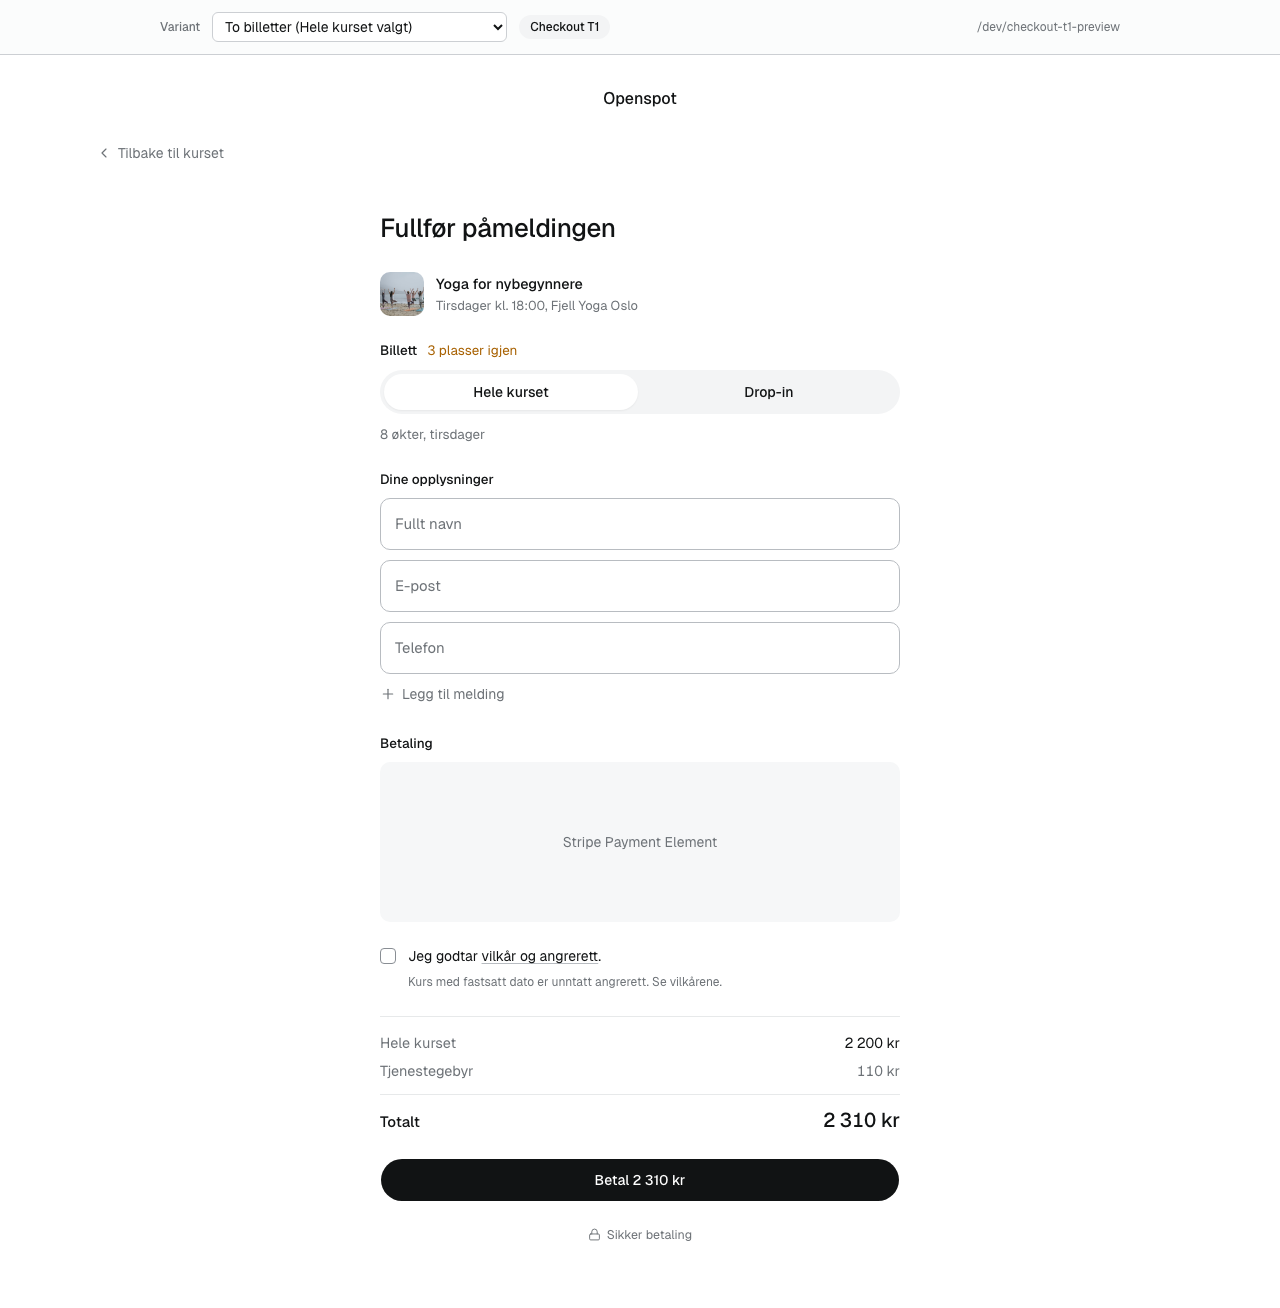
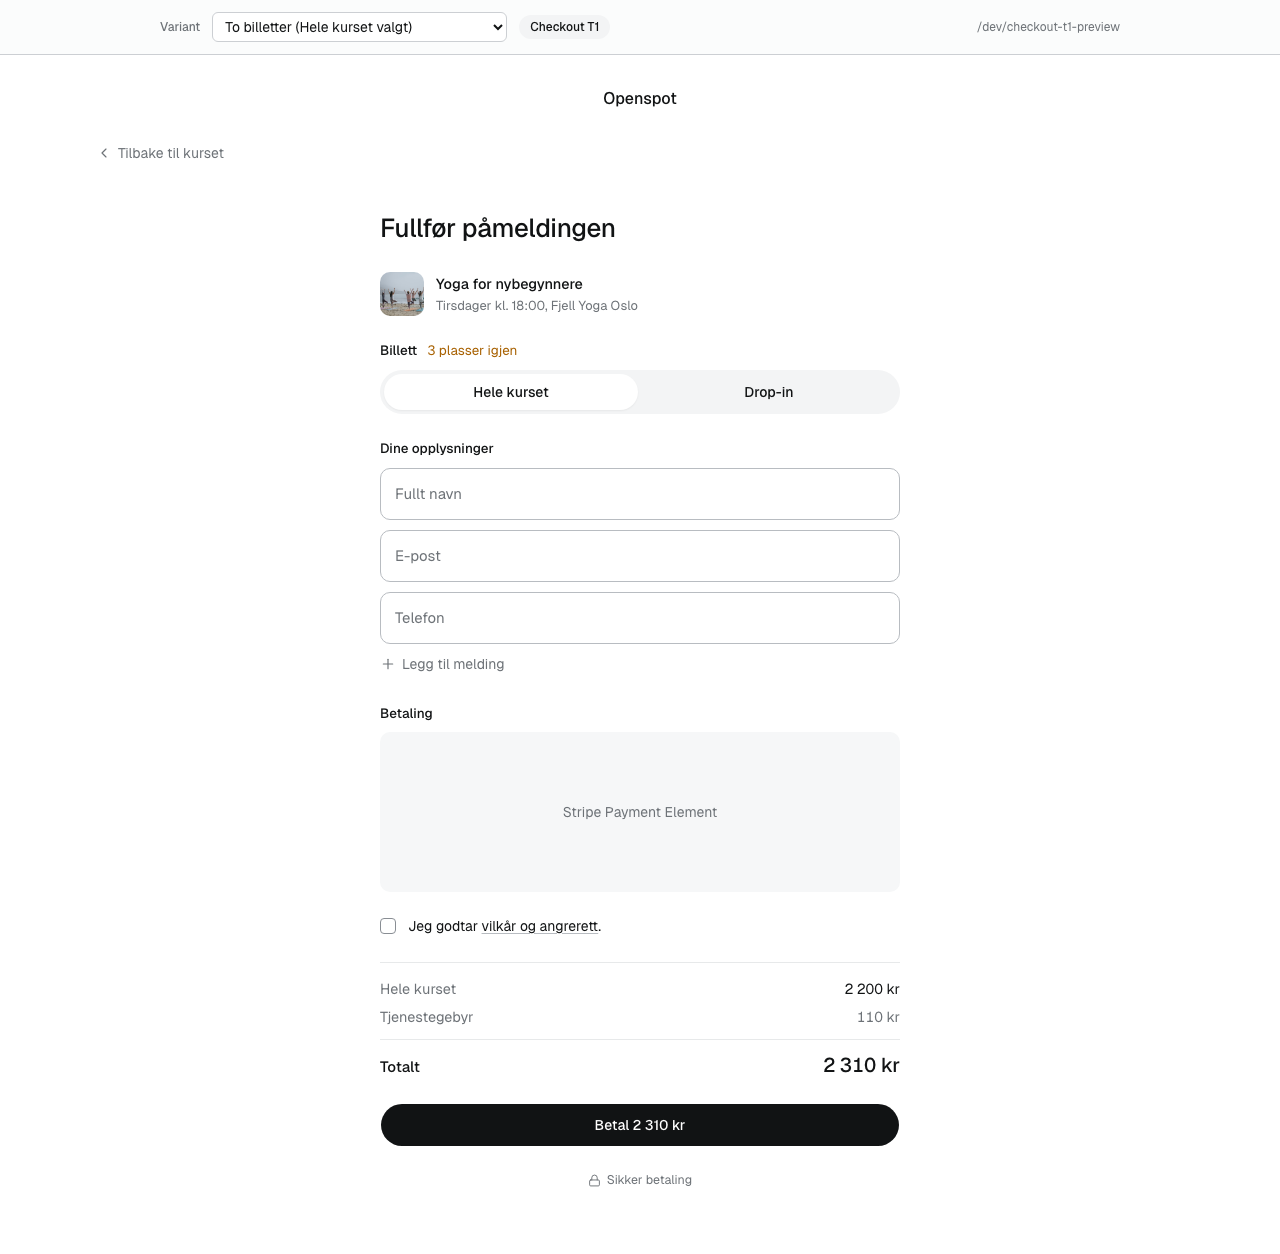
fix: 0 kr in amount slots, drop angrerett note, anchor drop-in info in context row
Free courses render 0 kr wherever a number belongs (receipt total,
booking-bar price lines) instead of Gratis. The angrerett helper line
under the terms checkbox is removed — the vilkår link carries it. The
floating constraint line under the Billett toggle is gone: the context
row's meta line is now the selection-aware slot, swapping to
«Neste økt: … , {studio}» when drop-in is selected.

diff --git a/src/pages/public/CheckoutPage.tsx b/src/pages/public/CheckoutPage.tsx
@@ -15,7 +15,7 @@ import type { Stripe } from '@stripe/stripe-js';
 import { getStripe, isStripeConfigured } from '@/lib/stripe';
 import { withTimeout } from '@/lib/with-timeout';
 import { ChevronLeft, Lock, Plus } from '@/lib/icons';
-import { formatCoursePrice, formatKroner, formatPersonName, isValidEmail, isValidPhone, cn } from '@/lib/utils';
+import { formatKroner, formatPersonName, isValidEmail, isValidPhone, cn } from '@/lib/utils';
 import { calculateServiceFee } from '@/lib/pricing';
 import { friendlyError } from '@/lib/error-messages';
 import { fetchPublicCourseBySlug, resolveCourseImage, type PublicCourseWithDetails } from '@/services/publicCourses';
@@ -29,7 +29,6 @@ import { SegmentedTabs } from '@/components/teacher/SegmentedTabs';
 import type { TicketId } from '@/components/public/course-details/BookingRailLite';
 import {
   buildCheckoutContextMeta,
-  buildMainTierConstraintLabel,
   buildNextSessionLabel,
 } from '@/components/public/course-details/schedule-format';
 import type { AvailableTicketType } from '@/types/database';
@@ -326,11 +325,16 @@ const CheckoutPage = () => {
   const showBillett = tiers.length === 2 && !!mainTier && !!dropInTier;
   const billettSpotsLeft = course?.spots_available ?? 0;
   const billettLowStock = billettSpotsLeft > 0 && billettSpotsLeft <= 3;
-  const billettConstraintLabel = isDropInSelected
-    ? (dropInResolving ? null : buildNextSessionLabel(dropInNextSession ?? null))
-    : course && mainTier
-      ? buildMainTierConstraintLabel(course, mainTier)
-      : null;
+  // Drop-in selected → the context row's meta line swaps to the concrete
+  // session being bought. The value updates in an existing slot; nothing
+  // floats under the toggle.
+  const contextMetaOverride = (() => {
+    if (!isDropInSelected || dropInResolving) return undefined;
+    const next = buildNextSessionLabel(dropInNextSession ?? null);
+    if (!next) return undefined;
+    const seller = course?.seller?.name;
+    return seller ? `${next}, ${seller}` : next;
+  })();
 
   // ── Form validation ─────────────────────────────────────────────────────
   // Blur shows format errors on non-empty fields; a failed submit attempt
@@ -481,6 +485,7 @@ const CheckoutPage = () => {
           <CheckoutTitle />
           <CheckoutCourseContext
             course={course}
+            metaOverride={contextMetaOverride}
             trailing={
               !closed && !showBillett && billettLowStock ? (
                 <span className="ml-auto whitespace-nowrap text-[13px] text-warning">
@@ -499,7 +504,6 @@ const CheckoutPage = () => {
                 const tier = kind === 'drop-in' ? dropInTier : mainTier;
                 if (tier) setSelectedTierId(tier.id);
               }}
-              constraintLabel={billettConstraintLabel}
               lowStock={billettLowStock}
               spotsLeft={billettSpotsLeft}
               disabled={submitting}
@@ -768,7 +772,7 @@ export function ContactFields({
 }
 
 /**
- * Terms checkbox + one-line angrerett note. Kept functionally identical to
+ * Terms checkbox. Kept functionally identical to
  * the previous inline block, just extracted so it can sit at the end of the
  * form (directly before the receipt + pay action) per the mock — the
  * "Ingen mva. kommer i tillegg." / "Påmeldingen er hos X." lines that used
@@ -810,9 +814,6 @@ export function TermsField({
         </p>
       </div>
       {error && <FieldError id="terms-error" className="pl-7">{error}</FieldError>}
-      <p className="mt-2 pl-7 text-xs text-foreground-muted">
-        Kurs med fastsatt dato er unntatt angrerett. Se vilkårene.
-      </p>
     </div>
   );
 }
@@ -1077,11 +1078,14 @@ function PaidCheckoutForm({
 export function CheckoutCourseContext({
   course,
   trailing,
+  metaOverride,
 }: {
   course: PublicCourseWithDetails;
   trailing?: React.ReactNode;
+  /** Replaces the default meta line, e.g. drop-in's «Neste økt: …». */
+  metaOverride?: string | null;
 }) {
-  const meta = buildCheckoutContextMeta(course, course.seller?.name ?? null);
+  const meta = metaOverride ?? buildCheckoutContextMeta(course, course.seller?.name ?? null);
   const img = resolveCourseImage(course);
 
   return (
@@ -1175,7 +1179,7 @@ export function CheckoutReceipt({
         )}
       >
         <span>Totalt</span>
-        <span className="text-xl tabular-nums">{formatCoursePrice(total)}</span>
+        <span className="text-xl tabular-nums">{formatKroner(total)}</span>
       </div>
     </div>
   );
@@ -1192,7 +1196,6 @@ export function BillettSection({
   dropInTier,
   selectedKind,
   onSelect,
-  constraintLabel,
   lowStock,
   spotsLeft,
   disabled,
@@ -1201,7 +1204,6 @@ export function BillettSection({
   dropInTier: AvailableTicketType;
   selectedKind: TicketId;
   onSelect: (kind: TicketId) => void;
-  constraintLabel: string | null;
   lowStock: boolean;
   spotsLeft: number;
   disabled: boolean;
@@ -1229,9 +1231,6 @@ export function BillettSection({
           { key: 'drop-in', label: dropInTier.label },
         ]}
       />
-      {constraintLabel && (
-        <p className="text-[13.5px] text-foreground-muted">{constraintLabel}</p>
-      )}
     </div>
   );
 }

diff --git a/src/pages/dev/CheckoutT1Preview.tsx b/src/pages/dev/CheckoutT1Preview.tsx
@@ -15,7 +15,6 @@ import {
   type FormState,
 } from '@/pages/public/CheckoutPage';
 import {
-  buildMainTierConstraintLabel,
   buildNextSessionLabel,
 } from '@/components/public/course-details/schedule-format';
 import type { TicketId } from '@/components/public/course-details/BookingRailLite';
@@ -84,15 +83,14 @@ function PreviewBody({ variant }: { variant: Variant }) {
   const fee = calculateServiceFee(subtotal);
   const total = subtotal + fee;
 
-  // Constraint line under the Billett toggle — same helpers the real page
-  // uses; the drop-in "next session" is a fixed mock date.
+  // Drop-in selected → the context row's meta swaps to the session being
+  // bought (same slot-update behavior as the real page).
   const nextDropInSession = mockNextDropInSession(variant);
-  const constraintLabel =
-    selectedKind === 'drop-in'
-      ? buildNextSessionLabel(nextDropInSession)
-      : mainTier
-        ? buildMainTierConstraintLabel(course, mainTier)
-        : null;
+  const nextLabel = buildNextSessionLabel(nextDropInSession);
+  const metaOverride =
+    selectedKind === 'drop-in' && nextLabel
+      ? [nextLabel, course.seller?.name].filter(Boolean).join(', ')
+      : undefined;
 
   const billettSpotsLeft = 3;
 
@@ -116,6 +114,7 @@ function PreviewBody({ variant }: { variant: Variant }) {
           <CheckoutTitle />
           <CheckoutCourseContext
             course={course}
+            metaOverride={metaOverride}
             trailing={
               !showBillett ? (
                 <span className="ml-auto whitespace-nowrap text-[13px] text-warning">
@@ -131,7 +130,6 @@ function PreviewBody({ variant }: { variant: Variant }) {
               dropInTier={dropInTier}
               selectedKind={selectedKind}
               onSelect={setSelectedKind}
-              constraintLabel={constraintLabel}
               lowStock
               spotsLeft={billettSpotsLeft}
               disabled={false}

diff --git a/src/components/public/course-details/BookingBar.tsx b/src/components/public/course-details/BookingBar.tsx
@@ -1,6 +1,6 @@
 import { Link } from 'react-router-dom';
 import { Button } from '@/components/ui/button';
-import { formatCoursePrice, formatKroner } from '@/lib/utils';
+import { formatKroner } from '@/lib/utils';
 import type { TicketTile } from './BookingRailLite';
 
 interface BookingBarProps {
@@ -94,14 +94,14 @@ export function BookingBar({
                         {formatKroner(coursePrice)}
                       </s>
                     )}
-                    {formatCoursePrice(mainTile.amount)}
+                    {formatKroner(mainTile.amount)}
                   </span>
                 </p>
               )
             )}
             {dropInTile && (
               <p className="truncate text-[13px] text-foreground-muted tabular-nums">
-                {dropInTile.label} {formatCoursePrice(dropInTile.amount)}
+                {dropInTile.label} {formatKroner(dropInTile.amount)}
               </p>
             )}
           </div>